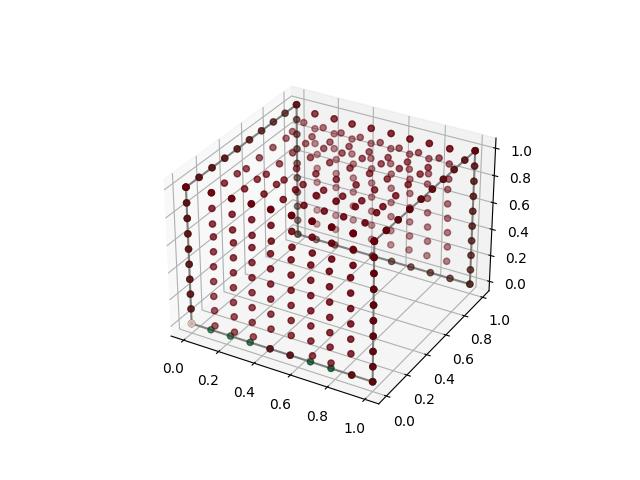
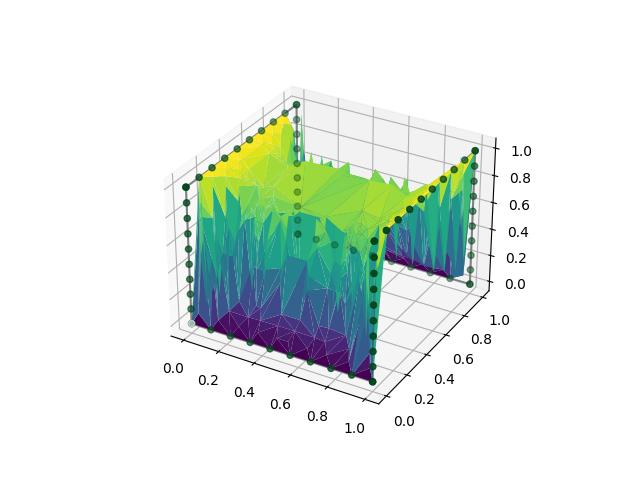
Tested runtimes

Changed region(s): [[0.2812, 0.1875, 0.75, 0.8125]]

diff --git a/main.py b/main.py
@@ -2,6 +2,7 @@ from mpl_toolkits import mplot3d
 import numpy as np
 import matplotlib.pyplot as plt
 from math import sqrt
+import timeit
 
 # 3d plotting on pyplot: https://jakevdp.github.io/PythonDataScienceHandbook/04.12-three-dimensional-plotting.html
 
@@ -73,13 +74,15 @@ attentionN = 8
 # Minimum distance beyond which to stop paying attention to neighbors
 dMin = 0.05
 # Multiplier to bias towards points along wire
-mult = 40
+mult = 2
 # Step-length
-step = 0.0001
+step = 0.01
 # Number of iterations to perform
-REPS = 1
+REPS = 4
 # Display it as a surface or collection of points?
-surf = False#True
+surf = True
+# Number of points remains constant?
+constN = False
 
 def find_nearest(bubblepts0):
   dirs = []
@@ -88,7 +91,7 @@ def find_nearest(bubblepts0):
     # Find each point's closest neighbors:
     # For n smallest items in a numpy array: https://stackoverflow.com/questions/33623184/fastest-method-of-getting-k-smallest-numbers-in-unsorted-list-of-size-n-in-pytho
     #if pt in boundary0.tolist():
-    if any(np.equal(boundary0,pt).all(1)):
+    if any(np.equal(boundary0,pt).all(1)) and constN:
       dirs.append([0,0,0])
       continue
 
@@ -97,30 +100,35 @@ def find_nearest(bubblepts0):
     neighborhood = np.partition(dists, attentionN)[:attentionN]
     #print(neighborhood)
     vec_sum = [0,0,0]
-    neighbors = []
+    # neighbors = []
     for k in range(len(bubblepts0)):
       if dists[k] in neighborhood:
         neighbor = bubblepts0[k]
-        neighbors.append(neighbor)
-        mag = sqrt(sum([(neighbor[c]-pt[c])**2 for c in range(3)]))
-        #### sqrt dists[k] #####################
+        # neighbors.append(neighbor)
+        mag = sqrt(dists[k]) # sqrt(sum([(neighbor[c]-pt[c])**2 for c in range(3)]))
         
         for coord in range(3):
-          if neighbor in boundary0:
+          if any(np.equal(boundary0,neighbor).all(1)):
             vec_sum[coord] += mult * (neighbor[coord] - pt[coord]) / mag * step
           else:
             vec_sum[coord] += (neighbor[coord] - pt[coord]) / mag * step
     
     dirs.append(vec_sum)
-  return(dirs)
+  
+  return(dirs + len(boundary0)*[[0,0,0]])
+
+
+def find_nearest0():
+  return(find_nearest(soap0))
 
 def bubble_evolve(bubblepts0, reps):
   soap = bubblepts0
   for rep in range(reps):
-    soap = np.add(soap, find_nearest(soap0))
+    soap = np.add(np.concatenate([soap, boundary0], axis=0), find_nearest(soap))
     print(f"Iteration: {rep + 1}")
   return soap
 
+"""
 film = bubble_evolve(soap0, REPS)
 #print(find_nearest(soap0))
 
@@ -130,3 +138,35 @@ else:
   ax.scatter3D(film.T[0], film.T[1], film.T[2], c=[0 if i==0 else 1 for i in range(len(film))], cmap='Reds');
 # Save resulting figure as an image
 fig.savefig("model3_0.jpg")
+"""
+def find_nearest_time():
+  SETUP_CODE = '''
+from __main__ import find_nearest0
+import numpy as np'''
+
+  TEST_CODE = '''
+find_nearest0()'''
+
+  print (timeit.timeit(setup = SETUP_CODE,
+                     stmt = TEST_CODE,
+                     number = 4))
+#find_nearest_time()
+
+
+def bubble_evolve0():
+  return(bubble_evolve(soap0, REPS))
+  
+def bubble_evolve_time():
+  SETUP_CODE = '''
+from __main__ import bubble_evolve0
+import numpy as np'''
+
+  TEST_CODE = '''
+bubble_evolve0()'''
+
+  print (timeit.timeit(setup = SETUP_CODE,
+                     stmt = TEST_CODE,
+                     number = 1))
+bubble_evolve_time()
+
+# bubble_evolve takes 34.5 sec, find_nearest * 4 takes 20 sec 
